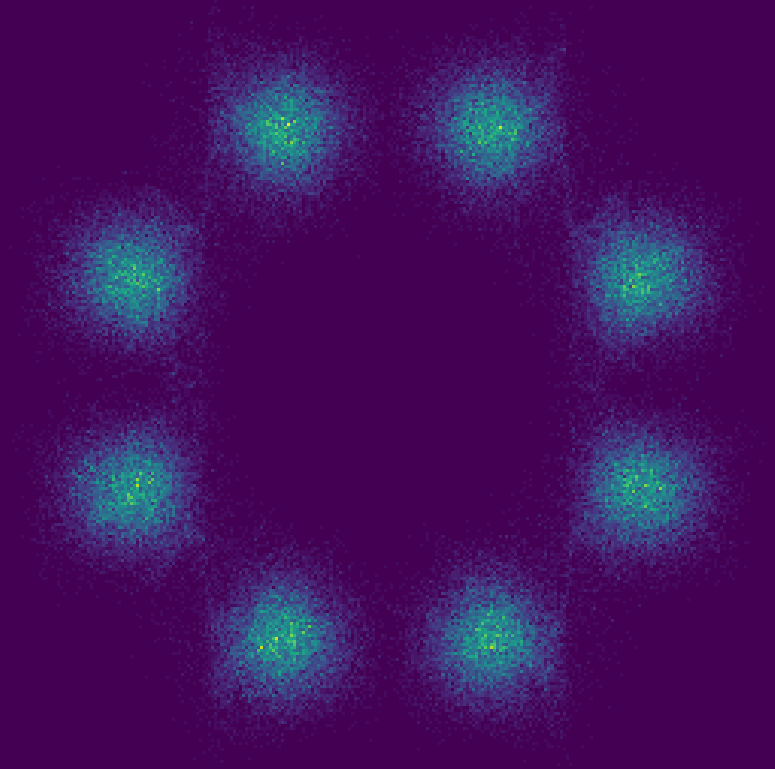
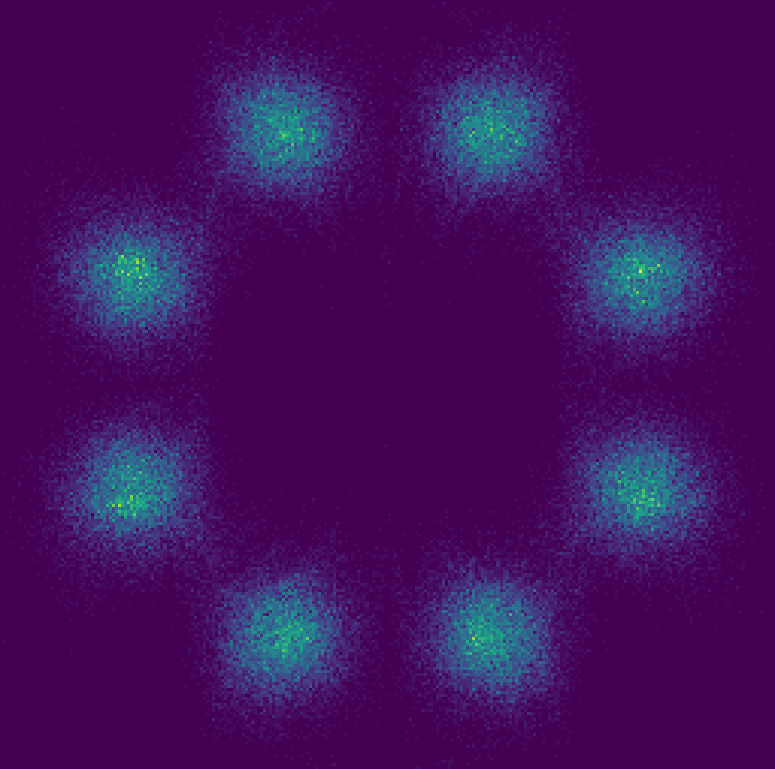
fix the flow

diff --git a/unit_test/US1.42/test_conv1x1.py b/unit_test/US1.42/test_conv1x1.py
@@ -1,0 +1,32 @@
+import jax
+from jax import numpy as jnp, random
+import sys
+sys.path.append(".")
+from survae.nn.nets import MLP
+import survae
+from flax import linen as nn
+import numpy as np
+
+rng = random.PRNGKey(7)
+rng, key = random.split(rng)
+x = random.normal(rng, (6,3,2,2))
+conv = survae.Conv1x1(3,True)
+
+print(conv)
+params = conv.init(key, x)
+print(params)
+print("===============================================")
+
+
+y,ldj=conv.apply(params,x)
+print("====================== y[0] =======================")
+print(y[0])
+print("====================== ldj =======================")
+print(jnp.exp(ldj))
+print("====================== inverse y[0] =======================")
+_x=conv.apply( params,y,method=survae.Conv1x1.inverse)
+print(_x[0])
+print("====================== x[0] - inverse y[0] =======================")
+print(x[0]-_x[0])
+print("=========================")
+

diff --git a/experiments/toy/train_abs_flow.py b/experiments/toy/train_abs_flow.py
@@ -113,7 +113,7 @@ for layer in range(args.num_flows):
 # transforms.pop()
 
 # Construct Flow
-absflow = AbsFlow(base_dist=StandardNormal, transforms=transforms, latent_size=(2,))
+absflow = Flow(base_dist=StandardNormal, transforms=transforms, latent_size=(2,))
 params = absflow.init(key, rng=rng,x=train_data[:2])
 
 
@@ -135,7 +135,7 @@ plt.savefig('./experiments/toy/figures/{}_train_data.png'.format(args.dataset), 
 
 
 # Plot the model samples before training
-before_train = absflow.apply(params, rng, args.train_samples, method=absflow.sample)
+before_train = absflow.apply(params, rng=rng, num_samples=args.train_samples, method=absflow.sample)
 # scat = plt.scatter(before_train[:, 0], before_train[:, 1], cmap="bwr", alpha=0.5, s=1)
 # plt.savefig('./experiments/toy/figures/before_train.png')
 # scat.remove()

diff --git a/survae/flows/flow.py b/survae/flows/flow.py
@@ -41,14 +41,10 @@ class Flow(nn.Module, Distribution):
 
     def sample(self, rng, num_samples, *args, **kwargs):
 
-        # TODO instead of params we can pass latent size
-        # if params == None:
-        #     params=jnp.zeros(self.latent_size)
-        # ipdb.set_trace()
         z = self._base_dist.sample(rng=rng, num_samples=num_samples, params=jnp.zeros(self.latent_size), *args, **kwargs)
         for i, transform in enumerate(reversed(self._transforms)):
             # ipdb.set_trace()
-            z = transform.inverse(z, *args, **kwargs)
+            z = transform.inverse(z=z, rng=rng, *args, **kwargs)
         return z
 
 
